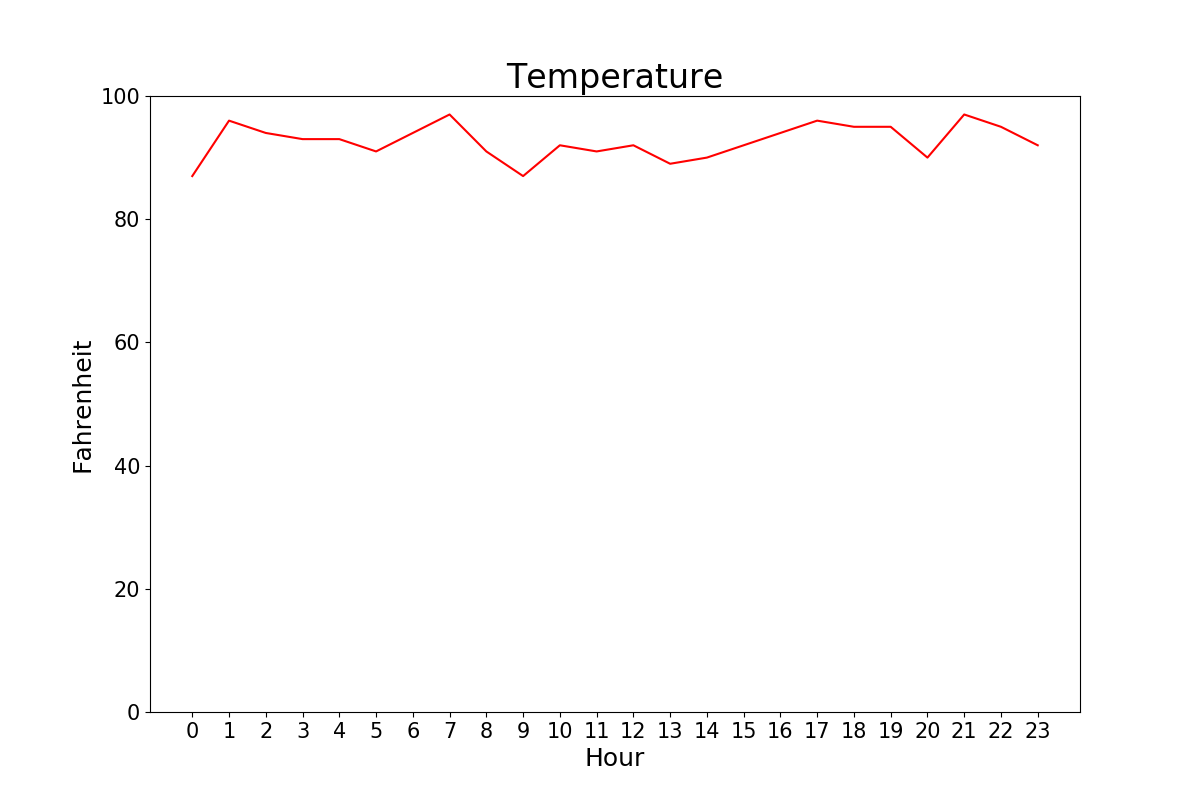
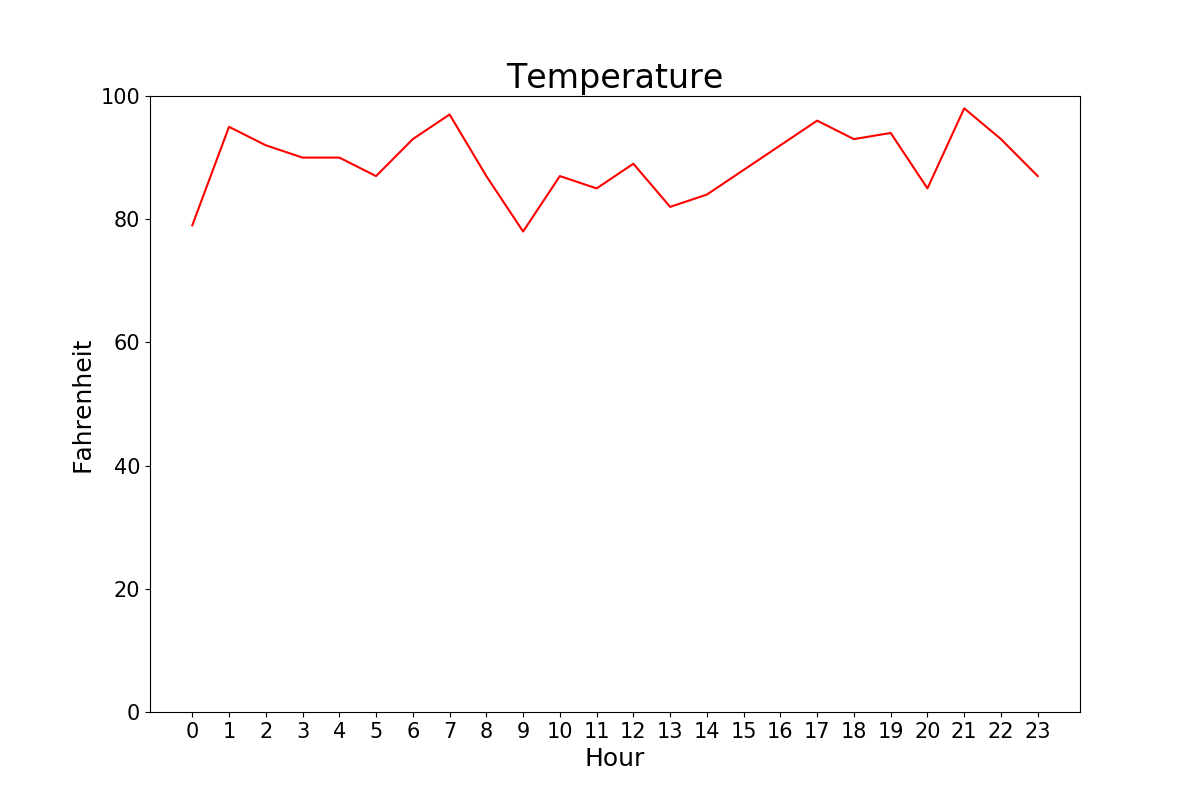
Commented database.db and added error checking

diff --git a/database/database.py b/database/database.py
@@ -3,40 +3,98 @@ import random
 import matplotlib.pyplot as plt
 
 def query(DOC_ROOT, userid, source, time_start, time_end):
-    # Get temp and humidity for the time range [<time_start>, <time_end>] for specified <userid> and <source>
-    output = []
-    cur = sqlite3.connect(DOC_ROOT + "/database/data.db").cursor()
-    for time in range(time_start, time_end+1):
-        command = '''SELECT temp, humidity from temprh WHERE userid=? and source=? and time=?'''
-        cur.execute(command, (userid, source, time))
-        result = cur.fetchone()
-        if result is not None:
-            output.append(result)
+    '''
+    Get temp and humidity for the time range [<time_start>, <time_end>] for specified <userid> and <source>.
 
-    cur.close()
+    Args:
+        DOC_ROOT (str): Path to project directory
+        userid (str): Unique id for user
+        source (int): Source number
+        time_start (int): Start time for pulling out temp and hum values
+        time_end (int): End time for pulling out temp and hum values
+
+    Returns:
+    '''
+    output = []
+    command = '''SELECT temp, humidity from temprh WHERE userid=? and source=? and time=?'''
+    try:
+        cur = sqlite3.connect(DOC_ROOT + "/database/data.db").cursor()
+        for time in range(time_start, time_end+1):
+            cur.execute(command, (userid, source, time))
+            result = cur.fetchone()
+            if result is not None:
+                output.append(result)
+    except sqlite.Error as e:
+        print('query() Error %s: ' % e.args[0])
+    finally:
+        cur.close()
+    
     return(output)
 
 def get_sources(DOC_ROOT, userid):
-    # select unique source, label pairs
-    command = '''SELECT DISTINCT source, label from temprh WHERE userid=?'''
-    cur = sqlite3.connect(DOC_ROOT + "/database/data.db").cursor()
-    cur.execute(command, (userid,))
-    result = cur.fetchall()
+    '''
+    Select unique source, label pairs for <userid>.
 
-    cur.close()
+    Args:
+        DOC_ROOT (str): Path to project directory
+        userid (str): Unique id for user
+
+    Returns:
+        result (list of tuples): List of all unique (source, label) pairs for <userid>
+    '''
+    command = '''SELECT DISTINCT source, label from temprh WHERE userid=?'''
+    try:
+        cur = sqlite3.connect(DOC_ROOT + "/database/data.db").cursor()
+        cur.execute(command, (userid,))
+        result = cur.fetchall()
+    except sqlite.Error as e:
+        print('get_sources() Error %s' % e.args[0])
+    finally:
+        cur.close()
+    
     return result
 
 def get_label(DOC_ROOT, userid, source):
-    command = '''SELECT DISTINCT label from temprh WHERE userid=? and source=? '''
-    cur = sqlite3.connect(DOC_ROOT + "/database/data.db").cursor()
-    cur.execute(command, (userid,source))
-    result = cur.fetchone()
+    '''
+    Get label of source belonging to <userid>.
 
-    cur.close()
+    Args:
+        DOC_ROOT (str): Path to project directory
+        userid (str): Unique id for user
+        source (int): Source number
+        
+    Returns:
+        result[0] (str): Name of source
+    '''
+    command = '''SELECT DISTINCT label from temprh WHERE userid=? and source=? '''
+    try:
+        cur = sqlite3.connect(DOC_ROOT + "/database/data.db").cursor()
+        cur.execute(command, (userid, source))
+        result = cur.fetchone()
+    except sqlite.Error as e:
+        print('get_label() Error %s' % e.args[0])
+    finally:
+        cur.close()
+    
     return result[0]
 
 def save_graph(DOC_ROOT, time, temp, humidity, userid, source):
-    # plot temp
+    '''
+    Plot and save graphs of time vs temp and time vs humidity for source belonging to <userid>
+    Plots are saved in folder tmp/, which is cleared upon user sign out.
+
+    Args:
+        DOC_ROOT (str): Path to project directory
+        time (list): List of time (by hour) values to plot against temperature and humidity
+        temp (list): List of temperature values to plot against time 
+        humidity (list): List of humidity values to plot against time 
+        userid (str): Unique id for user
+        source (int): Source number
+
+    Returns:
+        None
+    ''' 
+    # plot temp vs time
     plt.figure(figsize=(12,8))
     plt.plot(time, temp, color='red')
     plt.title('Temperature', fontsize=24)
@@ -47,7 +105,7 @@ def save_graph(DOC_ROOT, time, temp, humidity, userid, source):
     plt.ylim(0,100)
     plt.savefig(DOC_ROOT + '/tmp_files/'+userid+'_'+str(source)+'_temp.png')
 
-    # plot humidity
+    # plot humidity vs time
     plt.figure(figsize=(12,8))
     plt.plot(time, humidity, color='blue')
     plt.title('Humidity', fontsize=24)
@@ -59,34 +117,59 @@ def save_graph(DOC_ROOT, time, temp, humidity, userid, source):
     plt.savefig(DOC_ROOT + '/tmp_files/'+userid+'_'+str(source)+'_hum.png')
 
 def add_source(DOC_ROOT, userid, label):
+    '''
+    For <userid>, add a source with label <label>
+    Args:
+        DOC_ROOT (str): Path to project directory
+        userid (str): Unique id for user
+        label (str): Name of source
+
+    Returns:
+        None
+    '''
     connection = sqlite3.connect(DOC_ROOT + "/database/data.db") 
     cur = connection.cursor()
 
     # Get new source number
     command_get_sources = ''' SELECT DISTINCT source from temprh WHERE userid=? '''
-    cur.execute(command_get_sources, (userid,))
-    distinct_sources = cur.fetchall()
-    new_source = len(distinct_sources) + 1
+    try:
+        cur.execute(command_get_sources, (userid,))
+        distinct_sources = cur.fetchall()
+        new_source = len(distinct_sources) + 1
+    except sqlite.Error as e:
+        print('add_source() Error %s' % e.args[0])
 
-    # Insert source for userid into table by loggin temp and humidity for 24 hours
+    ### Insert source for userid into table by logging temp and humidity for 24 hours
     command = ''' INSERT into temprh(userid,source,label,time,temp,humidity) VALUES(?,?,?,?,?,?); '''
+    # Keep randomly generated temp and hum values within reasonable ranges
+    temp_mid = random.randint(10,91)
+    hum_mid = random.randint(10,91)
+    try:
+        for i in range(24):
+            # Randomly generate temp and hum 
+            temp_i = random.randint(temp_mid-10, temp_mid+10)
+            hum_i = random.randint(hum_mid-10, hum_mid+10)
+            # Insert temp and hum at hour <i> into table
+            cur.execute(command, (userid, new_source, label, i, temp_i, hum_i)) 
 
-    random.seed(new_source)
-    temp_mid = random.randint(5,96)
-    hum_mid = random.randint(5,96)
-    for i in range(24):
-        temp_i = random.randint(temp_mid-5, temp_mid+5)
-        hum_i = random.randint(hum_mid-5, hum_mid+5)
-        cur.execute(command, (userid, new_source, label, i, temp_i, hum_i))
-
-    connection.commit()
-
-    cur.close()
-    connection.close()
+        connection.commit()
+    except sqlite.Error as e:
+        print('add_source() Error %s' % e.args[0])
+    finally:
+        cur.close()
+        connection.close()
 
 def create_table():
-    connection = sqlite3.connect("database/data.db")
+    '''
+    Create table located in data.db called temprh
 
+    Args: 
+        None
+
+    Returns:
+        None
+    '''
+    # Create table with primary key (unique identifier) as (userid, source, time)
     create_table = ''' CREATE TABLE IF NOT EXISTS temprh (
         userid text NOT NULL,
         source integer NOT NULL,
@@ -97,11 +180,15 @@ def create_table():
         PRIMARY KEY (userid, source, time)
           ); '''
 
-    cur = connection.cursor()
-    cur.execute(create_table)
-    
-    connection.commit()
-
-    cur.close()
-    connection.close()
+    try:
+        connection = sqlite3.connect("database/data.db")
+        cur = connection.cursor()
+        cur.execute(create_table)
+        
+        connection.commit()
+    except sqlite.Error as e:
+        print('create_table() Error %s' % e.args[0])
+    finally:
+        cur.close()
+        connection.close()
     
